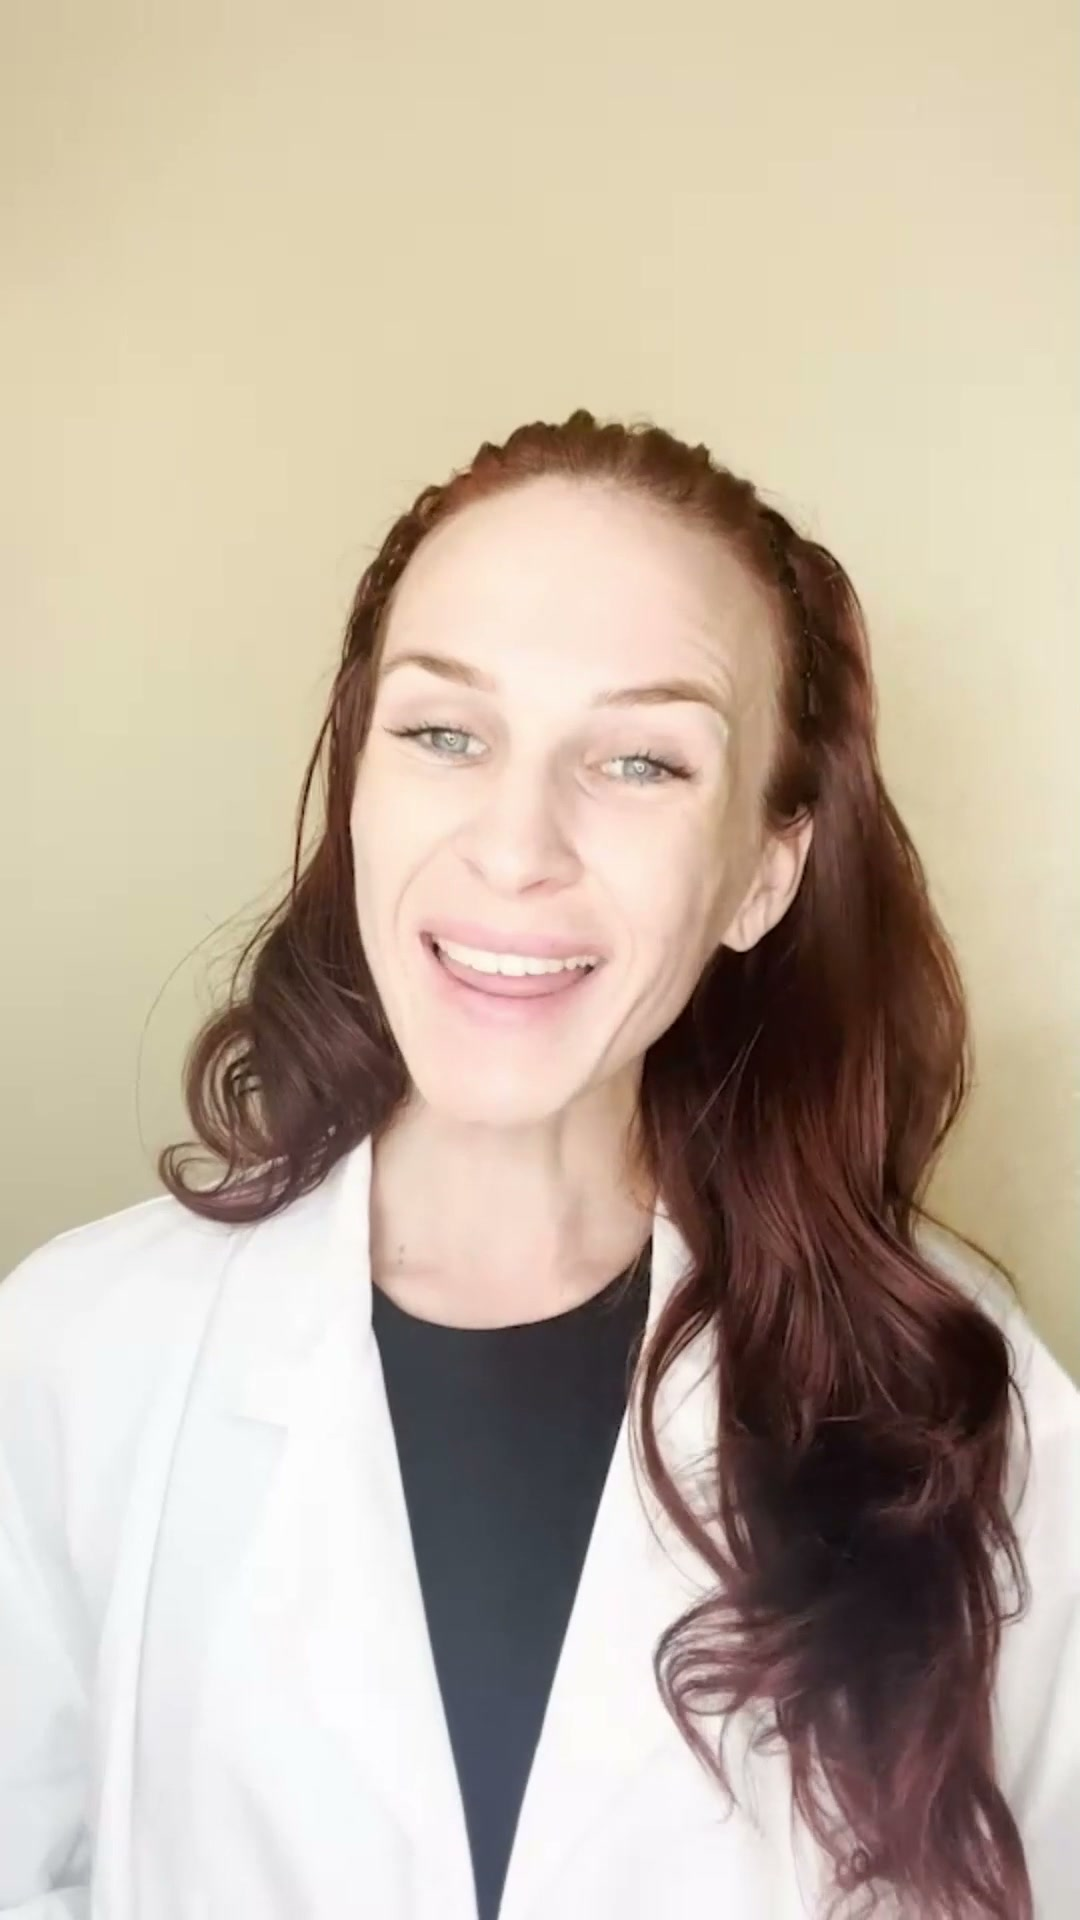
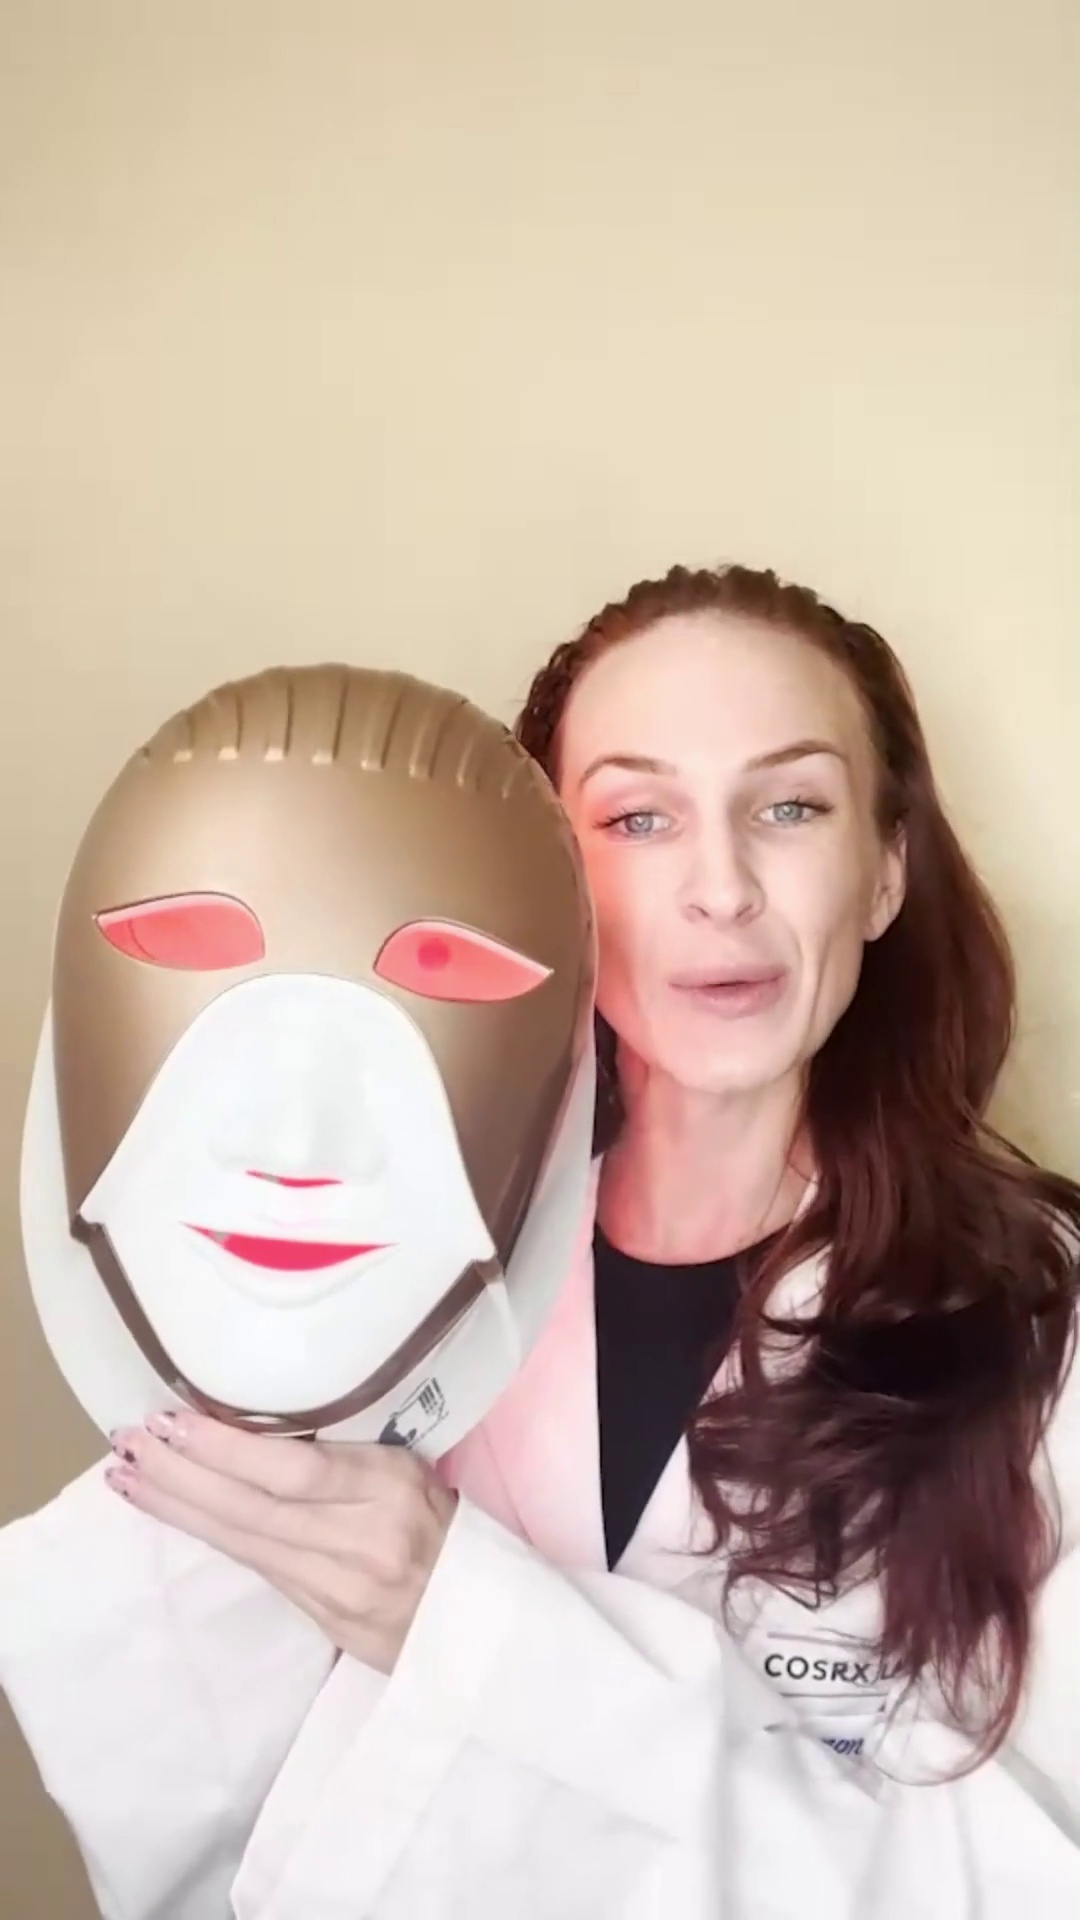
fix(video): set video thumbnail to 0:29 frame with Dr Shannon holding mask

diff --git a/src/components/LuxuryLedMaskLandingPage.tsx b/src/components/LuxuryLedMaskLandingPage.tsx
@@ -385,7 +385,7 @@ export function LuxuryLedMaskLandingPage({
                   controls
                   playsInline
                   preload="metadata"
-                  poster="/assets/buudy-dr-shannon-poster.jpg?v=2"
+                  poster="/assets/buudy-dr-shannon-poster.jpg?v=3"
                   aria-label="Dr. Shannon walkthrough of the Buudy 7 Colour LED Mask"
                   onPlay={() => setIsVideoPlaying(true)}
                   onPause={() => setIsVideoPlaying(false)}
